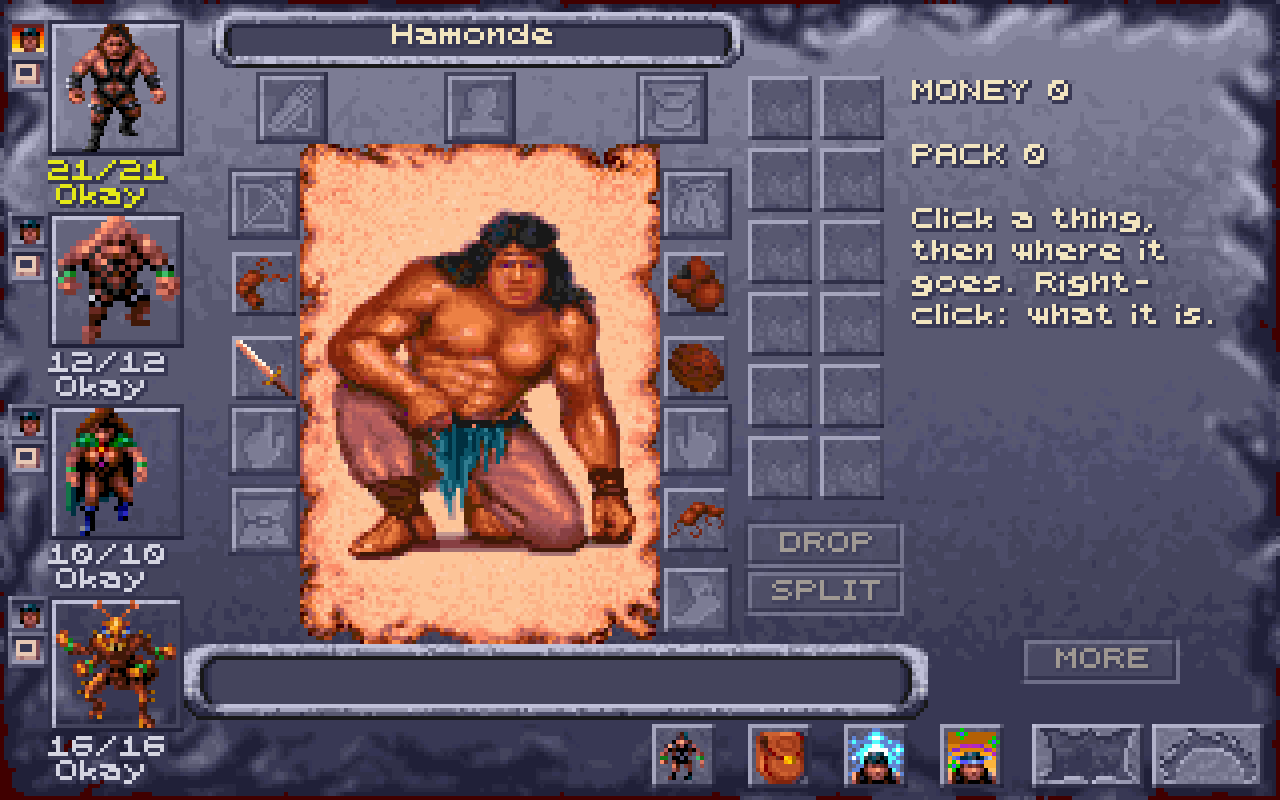
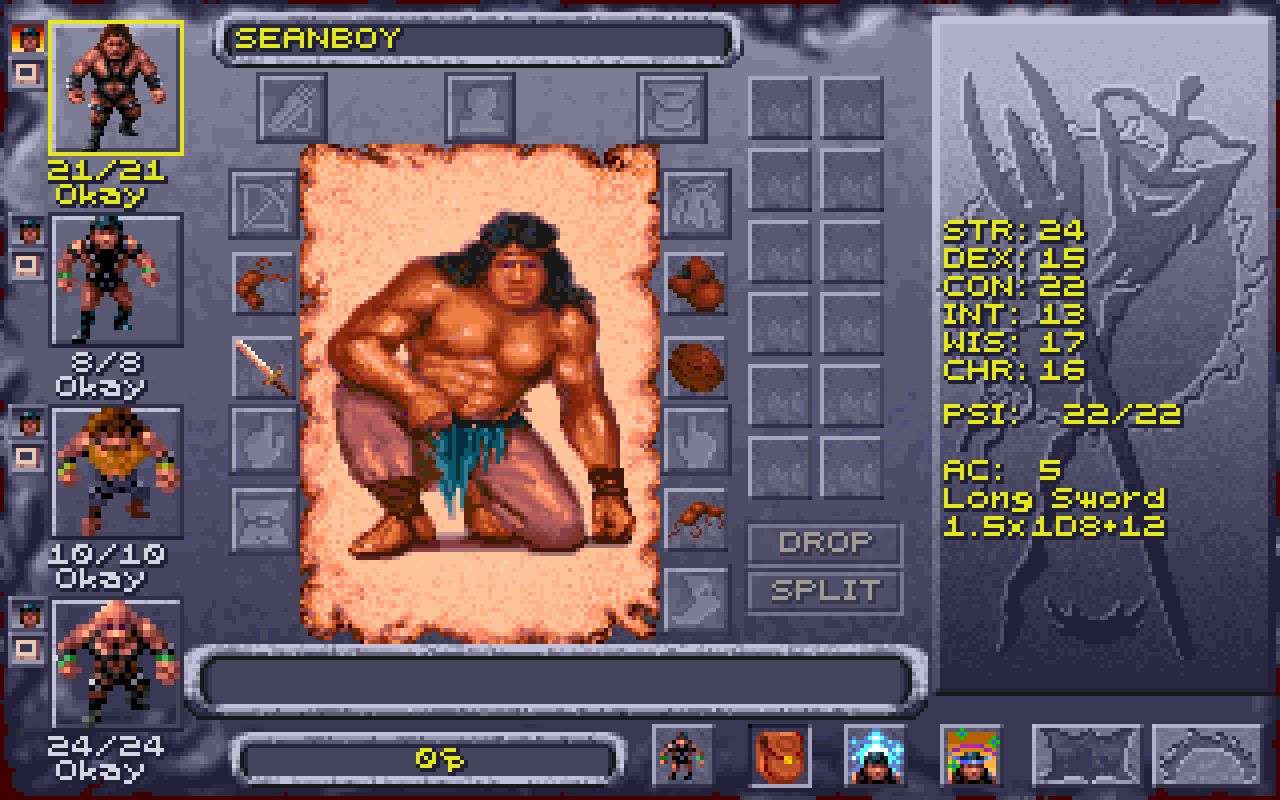
fix: inventory screen drawn as the original's
- The right-hand panel is BMP 13004 with the member's abilities, PSI, AC
  and attacks (74F1:37B3), not the engine's MONEY/PACK text.
- The money is in BMP 13000's bar under the window, "%12d$" (74F1:1C92).
- The name is written from the left of EBOX 4003, in capitals.
- The member's box and the items icon are drawn pressed (state 4).
- MORE only shows when the pack holds more than twelve things.
- Messages and the picked item's name go in the description box.

diff --git a/engine/game/scripts/CharacterScreen.cs b/engine/game/scripts/CharacterScreen.cs
@@ -2,6 +2,7 @@ using DarkSun.Data.Gff;
 using DarkSun.Data.Images;
 using DarkSun.Data.Items;
 using DarkSun.Game.Characters;
+using DarkSun.Game.Combat;
 using DarkSun.Game.Magic;
 using DarkSun.Game.World;
 using Godot;
@@ -23,6 +24,10 @@ namespace DarkSun.Engine;
 /// equipment slots around it (<c>APFM</c> 11216–11229, slot n at 11216 + n,
 /// each with its silhouette, <c>BMP</c> 13007 frame 9 + n); the pack
 /// (<c>APFM</c> 11230–11241, 12 at a time, MORE for the rest); DROP and SPLIT.
+/// On the right <c>BMP</c> 13004 with the member's abilities, PSI, AC and attacks
+/// (<see cref="RefreshStats"/>); the money under the window (<c>74F1:1C92</c>);
+/// the member's box and the items icon drawn pressed. What happens, or the item
+/// picked, shows in the description box under the figure.
 /// A carried bag or box double-clicked opens in place of the body
 /// (<c>6527:12BD</c>): first shut (<c>BMP</c> 20104 a bag, 20105 a box) for 15
 /// screen refreshes, then open (13003, 13002, at <c>APFM</c> 13200), its six
@@ -62,7 +67,17 @@ public partial class CharacterScreen : RetroScreen
     private const int ContainerSlots = ContainerWindow.Slots;
     private const int FirstSellSlot = 11242, SellSlots = 6;
     private const int SlotArt = 13007, EmptyFrame = 0, SelectedFrame = 4, CantFrame = 6, FirstSilhouette = 9;
-    private const int ChestArt = 13002, BagArt = 13003, ParchmentArt = 13005, Bars = 13000;
+    private const int ChestArt = 13002, BagArt = 13003, ParchmentArt = 13005, Bars = 13000, PanelArt = 13004;
+
+    /// <summary>
+    /// The right-hand panel out of a store (<c>74F1:37B3</c>): <c>BMP</c> 13004 at
+    /// (233, 4); STR: … CHR: at (236, 53 + 7i), their values at (260, …); PSI: at
+    /// (236, 99), "%d/%d" centred on 281 (<c>6CCA:1A9D</c>); "AC: %2d" at (236, 113);
+    /// the attacks from (236, 120), 7 a line (<c>78A9:28DC</c>).
+    /// </summary>
+    private static readonly Vector2 PanelAt = new(233, 4);
+    private const int StatsLeft = 236, StatsValues = 260, StatsTop = 53, PsiTop = 99, PsiCentre = 281, ArmourTop = 113, AttacksTop = 120, Line = 7;
+    private static readonly string[] AbilityNames = ["STR:", "DEX:", "CON:", "INT:", "WIS:", "CHR:"];
 
     /// <summary>The figures in the body's place: <c>BMP</c> 20000 + the member's look (0 human male … 13 thri-kreen, as the map icons <c>OJFF</c> 300–313).</summary>
     private const int FirstFigure = 20000, Figures = 14;
@@ -109,7 +124,10 @@ public partial class CharacterScreen : RetroScreen
     private Palette _palette = null!;
     private PageView _sheetPage = null!, _itemsPage = null!;
     private Label _sheet = null!, _sheetMore = null!, _info = null!, _status = null!, _itemsStatus = null!;
-    private TextureRect _body = null!, _figure = null!, _containerArt = null!;
+    private TextureRect _body = null!, _figure = null!, _containerArt = null!, _panel = null!;
+    private Control _stats = null!;
+    private readonly Label[] _abilities = new Label[6];
+    private Label _psp = null!, _armour = null!, _attacks = null!, _money = null!;
     private ItemWindow _itemWindow = null!;
     private readonly List<ItemSlot> _slots = [];
     private readonly Dictionary<int, Texture2D?> _slotArt = [];
@@ -218,6 +236,14 @@ public partial class CharacterScreen : RetroScreen
         Rect2 statusAt = items.RectOf("APFM", 11270);
         _itemsStatus = Text(items, statusAt.Position - new Vector2(0, 1), 176, "", HorizontalAlignment.Center);
         _itemsStatus.ClipText = true;
+        // 74F1:1C92: the money on BMP 13000's frame 0 at (57, 183), "%12d$" at (60, 185) ($ is the ceramic piece).
+        items.AddChild(new TextureRect { Texture = Art("BMP ", Bars, 0), Position = new Vector2(57, 183), MouseFilter = MouseFilterEnum.Ignore });
+        _money = Text(items, new Vector2(60, 185), 100, "");
+        _money.LabelSettings = GameFonts.Settings(ViewCharacterText.Yellow);
+        _panel = new TextureRect { Texture = Art("BMP ", PanelArt, 0), Position = PanelAt, MouseFilter = MouseFilterEnum.Ignore };
+        items.AddChild(_panel);
+        items.MoveChild(_panel, 5); // under the window's buttons (MORE is over it)
+        BuildStats(items);
         _sheetPage.Frames = new PartyFrames(sheet, _status, MemberView, Leader);
         _itemsPage.Frames = new PartyFrames(items, _itemsStatus, MemberView, Leader);
         for (int n = 0; n < Equipment.Slots; n++)
@@ -258,6 +284,81 @@ public partial class CharacterScreen : RetroScreen
         Canvas.AddChild(_itemWindow);
     }
 
+    /// <summary>The labels of the right-hand panel (<see cref="PanelAt"/>), in colour 47 (<c>DS:326E</c>).</summary>
+    private void BuildStats(UiWindowView items)
+    {
+        _stats = new Control { MouseFilter = MouseFilterEnum.Ignore };
+        items.AddChild(_stats);
+        Label Add(Vector2 at, float width, string text = "", HorizontalAlignment align = HorizontalAlignment.Left)
+        {
+            Label label = Text(_stats, at, width, text, align);
+            label.LabelSettings = GameFonts.Settings(ViewCharacterText.Yellow, lineSpacing: Line - GameFonts.Size);
+            return label;
+        }
+        for (int i = 0; i < 6; i++)
+        {
+            Add(new Vector2(StatsLeft, StatsTop + Line * i), StatsValues - StatsLeft, AbilityNames[i]);
+            _abilities[i] = Add(new Vector2(StatsValues, StatsTop + Line * i), 24);
+        }
+        Add(new Vector2(StatsLeft, PsiTop), 30, "PSI:");
+        _psp = Add(new Vector2(PsiCentre - 20, PsiTop), 40, "", HorizontalAlignment.Center);
+        _armour = Add(new Vector2(StatsLeft, ArmourTop), 80);
+        _attacks = Add(new Vector2(StatsLeft, AttacksTop), Width - StatsLeft - 2);
+        _attacks.Size = new Vector2(_attacks.Size.X, Line * 8);
+    }
+
+    /// <summary>The right-hand panel for the member (<c>74F1:37B3</c>): nothing for a box without a character.</summary>
+    private void RefreshStats()
+    {
+        _panel.Visible = _store is null;
+        _stats.Visible = _store is null && Member is not null && CharacterOf(_member) is not null;
+        if (!_stats.Visible)
+        {
+            return;
+        }
+        Character c = CharacterOf(_member)!;
+        Combatant fighter = PartyCombatant.From(c, Member!, _world!.Items, Session.Rules);
+        for (int i = 0; i < 6; i++)
+        {
+            _abilities[i].Text = fighter.Stats[i].ToString();
+        }
+        _psp.Text = $"{_magic.Psp(c)}/{_magic.MaxPsp(c)}";
+        _armour.Text = $"AC: {CharacterSheet.ArmorClass(fighter.Stats[(int)Ability.Dex], Member!.Items, _world.Items, Session.Rules),2}";
+        _attacks.Text = string.Join("\n", AttackLines(fighter));
+    }
+
+    /// <summary>
+    /// The attack lines (<c>78A9:28DC</c>): each weapon in hand and the missile
+    /// weapon, its name ("%+d %Fs" with a bonus) and its damage
+    /// (<c>78A9:2A9F</c>); then the natural attacks in &lt; &gt; (the first not
+    /// while a weapon is in hand). Strength adds to all but missiles'.
+    /// </summary>
+    private IEnumerable<string> AttackLines(Combatant fighter)
+    {
+        int strDamage = Session.Rules.Abilities.StrDamageOf(fighter.Stats[(int)Ability.Str]);
+        foreach (Weapon? w in new[] { fighter.Weapon, fighter.MissileWeapon })
+        {
+            if (w is null)
+            {
+                continue;
+            }
+            string name = w.Item is { } item ? ItemText.Name(_world!, item) : "";
+            yield return w.Bonus != 0 ? $"{w.Bonus:+0;-0} {name}" : name;
+            yield return Damage(fighter.AttackHalves, w.Type.DamageDice, w.Type.DamageSides, w.Type.DamageBonus + w.Bonus + (w.IsMissile ? 0 : strDamage));
+        }
+        foreach (var (attack, n) in fighter.NaturalAttacks.Select((a, n) => (a, n)))
+        {
+            if (n > 0 || fighter.Weapon is null)
+            {
+                yield return $"<{Damage(attack.Halves, attack.Dice, attack.Sides, attack.Bonus + strDamage)}>";
+            }
+        }
+    }
+
+    /// <summary><c>78A9:2CE1</c>: under three halves (one attack a round or less) the dice alone, else with the attacks (<see cref="CharacterSheet.DamageText"/>).</summary>
+    private static string Damage(int halves, int dice, int sides, int bonus) =>
+        halves < 3 ? $"{dice}D{sides}{(bonus != 0 ? bonus.ToString("+0;-0") : "")}" : CharacterSheet.DamageText(halves, dice, sides, bonus);
+
     private Texture2D? Art(string tag, int number, int frame) =>
         _resources.TryRead(tag, number, out var data) && Session.Assets.Frames(data) is var frames && frame < frames.Count
             ? Textures.ToTexture(frames[frame], _palette)
@@ -277,11 +378,13 @@ public partial class CharacterScreen : RetroScreen
         UiWindowView window = UiWindowView.Build(number, _palette, backdrop)!;
         window.Visible = false;
         Canvas.AddChild(window);
-        Rect2 bar = window.RectOf("BUTN", NameBar);
-        var page = new PageView { Window = window, Root = window, Name = Text(window, bar.Position + new Vector2(0, 1), bar.Size.X, "", HorizontalAlignment.Center) };
+        // 74F1:001C writes the name into the name bar's text box (EBOX 4003), from its left, in upper case.
+        Rect2 nameAt = window.RectOf("EBOX", 4003);
+        var page = new PageView { Window = window, Root = window, Name = Text(window, nameAt.Position, nameAt.Size.X, "") };
+        page.Name.LabelSettings = GameFonts.Settings(ViewCharacterText.Yellow);
         if (window.TextBox(4003) is { } nameBox)
         {
-            nameBox.Visible = false; // the name is drawn centred on the bar instead
+            nameBox.Visible = false; // the label above draws the name
         }
         for (int i = 0; i < GameWorld.PartySize; i++)
         {
@@ -535,6 +638,12 @@ public partial class CharacterScreen : RetroScreen
                 page.Hp[i].Text = there ? $"{_world[i]!.Vitals.Hp}/{_world[i]!.Vitals.MaxHp}" : "";
                 page.States[i].Text = there ? PartyFrames.StatusName(_world[i]!.Vitals.Status) : "";
             }
+            if (page == _itemsPage && page.Window.Button(FirstBox + i) is { } box)
+            {
+                // 74F1:001C sets the member's box to state 4, as the page's icon (74F1:042B): drawn pressed.
+                box.ToggleMode = true;
+                box.SetPressedNoSignal(i == _member);
+            }
             if (page.Window.Button(FirstLeader + i) is { } l)
             {
                 l.Visible = there;
@@ -548,7 +657,12 @@ public partial class CharacterScreen : RetroScreen
                 cc.TooltipText = $"Computer control is {(CharacterOf(i) is null ? "locked" : CharacterOf(i)!.ComputerControl ? "on" : "off")}";
             }
         }
-        page.Name.Text = MemberName(_member);
+        page.Name.Text = MemberName(_member).ToUpperInvariant();
+        if (page == _itemsPage)
+        {
+            page.Window.Button(ItemsButton)!.ToggleMode = true;
+            page.Window.Button(ItemsButton)!.SetPressedNoSignal(true);
+        }
         page.Frames.Refresh();
         switch (_page)
         {
@@ -654,7 +768,10 @@ public partial class CharacterScreen : RetroScreen
         bool stack = _picked is { } p && _world!.Stacks(p.Item.Record) && p.Item.Quantity > 1 && p.Holder == member;
         Enable(items.Button(SplitButton)!, stack);
         Enable(items.Button(DropButton)!, _picked is { } d && d.Holder == member);
-        Enable(items.Button(MoreButton)!, Pages(pack, PackSlots) > 1);
+        // DSUN.EXE's pack is the twelve slots; MORE (a page of the engine's bigger pack) only when there is more.
+        items.Button(MoreButton)!.Visible = Pages(pack, PackSlots) > 1;
+        _money.Text = $"{Money(),12}$";
+        RefreshStats();
         items.Button(SellButton)!.Visible = _store is not null;
         if (_store is not null)
         {
@@ -841,23 +958,22 @@ public partial class CharacterScreen : RetroScreen
             text = $"{ItemText.Name(_world, item)}\n" + (holder == _store ? $"PRICE {Shop.Price(item)}$" : Shop.Offer(item) > 0 ? $"WORTH {Shop.Offer(item)}$" : "I COULDN'T SELL THAT");
             _itemsPage.Window.Button(SellButton)!.TooltipText = ItemText.Describe(_world, item, Member, MemberName(_member), SpellName);
         }
-        else if (item is not null)
-        {
-            text = ItemText.Describe(_world, item, holder ?? Member, MemberName(_member), SpellName);
-        }
         else if (_store is not null)
         {
             text = StoreText();
         }
         else
         {
-            int count = Pack.Count, pages = Math.Max(1, (count + PackSlots - 1) / PackSlots);
-            text = $"MONEY {Money()}\n\nPACK {count}" + (pages > 1 ? $" (page {_packPage + 1}/{pages})" : "")
-                + (_container is { } c ? $"\n\n{(c.Name.Length > 0 ? c.Name.ToUpperInvariant() : "CONTAINER")}: {c.Items.Count}" : "")
-                + "\n\nClick a thing, then where it goes. Right-click: what it is.";
+            // Out of a store the panel is the member's (RefreshStats): what happened, or the item
+            // picked, goes in the description box under the figure; right-click describes an item.
+            _info.Visible = false;
+            _itemsPage.Frames.Resting = note
+                ?? (item is not null ? ItemText.Name(_world, item) + (item.Quantity > 1 ? $" ×{item.Quantity}" : "") : "");
+            return;
         }
-        _info.ClipText = _store is not null;
-        _info.Text = note is null ? text : _store is not null ? $"{note}\n{text}" : $"{note}\n\n{text}";
+        _info.Visible = true;
+        _info.ClipText = true;
+        _info.Text = note is null ? text : $"{note}\n{text}";
     }
 
     /// <summary>A party box's picture: the character's map sprite standing, facing forwards.</summary>
@@ -921,7 +1037,7 @@ public partial class CharacterScreen : RetroScreen
     /// <summary>The member's item that was picked up when the screen closed, for Use with… on the map; null if none.</summary>
     public Item? HeldOnClose { get; private set; }
 
-    public string Info => _info.Text;
+    public string Info => _store is not null ? _info.Text : _itemsPage.Frames.Resting;
 
     public string Sheet => _sheet.Text + "\n" + _sheetMore.Text;
 

diff --git a/engine/README.md b/engine/README.md
@@ -200,7 +200,8 @@ holding what it carried.
 The character screens (`CharacterScreen`) are the original's windows and art: C shows the
 character sheet (View Character, `WIND` 11500: abilities, hit points, armour class, THAC0,
 experience, psionics), I the items (`WIND` 13500: the body with its 14 equipment slots, the pack, DROP
-and SPLIT), and the bottom icons switch between them. Click a thing, then where it goes (a slot to
+and SPLIT; on the right `BMP` 13004 with the abilities, PSI, AC and the attacks, `74F1:37B3`; the money
+under the window, `74F1:1C92`; what happens in the description box), and the bottom icons switch between them. Click a thing, then where it goes (a slot to
 wear it, the pack, another member's box to give it); double-click wears or takes off; right-click
 opens the item window (and describes it in the panel). A carried bag or box opens in place of the
 body, to take or put in. The bar's other icons are spells and psionics, on View Character's panel. As in DSUN.EXE
